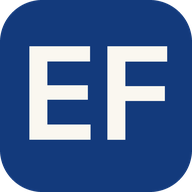
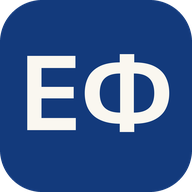
brand: scope proof + CTA; monogram ЕФ; sticky section labels; copy edits

Changed region(s): [[0.125, 0.2188, 0.9062, 0.75]]

diff --git a/index.html b/index.html
@@ -125,7 +125,8 @@ a:hover{color:var(--accent-hover); text-decoration-thickness:2px}
 .content{min-width:0; max-width:var(--measure)}
 @container (min-width:33rem){
   .section{display:grid; grid-template-columns:var(--rail) minmax(0,var(--measure)); column-gap:var(--gap); align-items:baseline} /* rail label sits ON the content's first baseline, not merely top-aligned — kills the ~5px caps-vs-serif drift */
-  .rail{text-align:right; margin-bottom:0}
+  .rail{text-align:right; margin-bottom:0;
+    position:sticky; top:var(--s6)} /* the section label trails the reader down its own section, then the next section's rule pushes it off — a CSS-only "active section" marker, no JS. It has travel because align-items:baseline still gives the rail its full (taller) content-row height as the containing block */
 }
 .kicker{text-transform:uppercase; font-weight:500; letter-spacing:var(--ls-caps); color:var(--muted); margin:0; line-height:1.2}
 .content>*:first-child{margin-top:0}
@@ -188,7 +189,8 @@ p{margin:var(--s5) 0 0; max-width:var(--measure); text-wrap:pretty}
 
 
 /* contact + footer */
-.contact{display:flex; flex-direction:column; gap:var(--s3); font-family:var(--display); font-weight:500; font-size:var(--fs-data)}
+.contact{display:flex; flex-direction:column; gap:var(--s3); font-family:var(--display); font-weight:500; font-size:var(--fs-data);
+  margin-top:var(--s5)} /* sits below the intent line; zeroed by the :first-child rule when no intro precedes it */
 .contact .ci{display:inline-flex; align-items:center; gap:.6em; line-height:1;
   color:var(--accent); text-decoration:none} /* the whole row — icon + text — is one click target */
 .contact .ci svg{width:20px; height:20px; fill:var(--accent); flex:0 0 auto}
@@ -230,7 +232,7 @@ footer{margin-top:var(--s8); border-top:1px solid var(--hairline); padding-top:v
   <section class="section">
     <div class="rail"><h2 class="kicker">Profile</h2></div>
     <div class="content">
-      <p>Eight years at <span class="lnum">Space307</span> &mdash; a trading platform for emerging markets across Asia and the Middle East &mdash; I priced the risk and built the monetization function before I ran product. It taught me to read a product through its economics, and to respect how hard the craft under it is.</p>
+      <p>Eight years at <span class="lnum">Space307</span>, a trading platform serving 20+ markets across Asia and the Middle East. I priced the risk and built the monetization function before I ran product; I read a product from its economics up, and I respect how hard the craft on top of that is.</p>
       <p>My strongest work is the org. I rebuilt how my department decides: quicker, cheaper, evidence over opinion. And I set how the wider company now decides which bets earn a rigorous test and which earn a fast, argued call &mdash; rigor where it&rsquo;s measurable, judgment where it isn&rsquo;t. When a call has to come before the data is clean, I make it and put my name on it.</p>
       <p>I shaped the product strategy the company runs on, and most of what I lead I don&rsquo;t manage &mdash; people follow the argument, not the title. The work I&rsquo;m proudest of is the leads who outgrew the roles I first handed them. I&rsquo;ll name a hard problem early, in plain words, rather than let it sit behind a clean status report.</p>
     </div>
@@ -239,7 +241,7 @@ footer{margin-top:var(--s8); border-top:1px solid var(--hairline); padding-top:v
   <section class="section">
     <div class="rail"><h2 class="kicker">Point of view</h2></div>
     <div class="content">
-      <p>A conviction I build and hire against: product durability is an economics problem before it&rsquo;s a feature problem. In a category like this one &mdash; regulation tightening, growth getting expensive &mdash; the products that last are the ones whose unit economics still work once the easy wins are gone. I&rsquo;d rather get the money model right than repaint the funnel.</p>
+      <p>A conviction I build and hire against: durability is an economics problem before it&rsquo;s a feature problem. I work in a category under tightening scrutiny &mdash; regulation closing in, acquisition getting expensive, growth no longer cheap. The products that last here are the ones whose unit economics still hold once the easy wins are gone. I&rsquo;d rather get the money model right than repaint the funnel.</p>
     </div>
   </section>
 
@@ -249,17 +251,17 @@ footer{margin-top:var(--s8); border-top:1px solid var(--hairline); padding-top:v
       <div class="stage">
         <span class="years tnum">2017&ndash;2022</span>
         <div><h3 class="role">Quant &middot; Risk Management</h3>
-        <p>I owned the pricing and risk end of the book &mdash; how every instrument we trade is priced and hedged. I grew from junior to senior quant, and the hardest calls in a live market landed on my desk.</p></div>
+        <p>I owned the pricing and risk end of the book: how every instrument we trade is priced and hedged. I grew from junior to senior quant, and the hardest live-market decisions landed on my desk.</p></div>
       </div>
       <div class="stage">
         <span class="years tnum">2022&ndash;2025</span>
         <div><h3 class="role">Monetization Lead</h3>
-        <p>Monetization wasn&rsquo;t a function yet. Leadership carved it out and asked me to build it &mdash; I did, from scratch: instrument pricing and risk, partner-network economics, retention, and the team of quants and analysts that runs it today. This is also where I moved from doing the analysis to leading the people who do it, and where I first had a hand in the company&rsquo;s strategy.</p></div>
+        <p>Monetization wasn&rsquo;t a function yet; it was smeared across teams, owned by no one. Leadership carved it out and asked me to build it, and I did &mdash; from scratch: instrument pricing and risk, partner-network economics, retention, and the team of quants and analysts that runs it today. This is where I moved from doing the analysis to leading the people who do it, and where I first had a hand in company strategy.</p></div>
       </div>
       <div class="stage">
         <span class="years tnum">2026&thinsp;&ndash;&thinsp;Now</span>
         <div><h3 class="role">Chief Product Officer</h3>
-        <p>I own product end to end &mdash; five delivery streams across the product&rsquo;s lifecycle, plus the functional teams for monetization, design, and research &mdash; and sit on the company&rsquo;s management team. The org I inherited was well-built, so I didn&rsquo;t spend my first year reorganizing it; I put my weight where the leverage was &mdash; how it decides. The operating model runs faster and cheaper now, and every roadmap review starts in the unit economics.</p></div>
+        <p>I own product end to end: a matrixed org of around eighty across five cross-functional delivery streams and the functional teams for monetization, design, and research, with nine leaders reporting to me directly. I sit on the company&rsquo;s management team. The org I inherited was well-built, so I didn&rsquo;t spend my first year reorganizing it &mdash; I put my weight where the leverage was: how it decides. The operating model runs leaner now, and every roadmap review starts in the unit economics.</p></div>
       </div>
     </div>
   </section>
@@ -268,15 +270,16 @@ footer{margin-top:var(--s8); border-top:1px solid var(--hairline); padding-top:v
     <div class="rail"><h2 class="kicker">How I lead</h2></div>
     <div class="content">
       <div class="principle"><h3>The constraint is never where it was last quarter.</h3><p>I moved a product org off measuring everything toward fast, cheap, evidence-first bets. When the bottleneck moved from shipping to deciding, I moved it again.</p></div>
-      <div class="principle"><h3>The model is a tool, not a verdict.</h3><p>My quant years taught me to read the numbers as evidence, not a ruling. The job is separating the bets that compound in the economics from the ones that just demo well.</p></div>
-      <div class="principle"><h3>The people calls are the ones to get right.</h3><p>I make them early and honestly. I treat the person leaving with as much care as the team staying, and own the call plainly instead of hiding behind process.</p></div>
-      <div class="principle"><h3>Know when to tune the engine and when to swap it.</h3><p>Most of the work is tuning how the money gets made. The judgment that earns its keep is spotting early &mdash; from where regulation and the market are heading &mdash; the moment tuning stops paying and the engine itself has to change.</p></div>
+      <div class="principle"><h3>The model is a tool, not a verdict.</h3><p>My quant years taught me to read the numbers as evidence, not a ruling. The job is separating the bets that compound from the ones that just demo well.</p></div>
+      <div class="principle"><h3>The people calls are the ones to get right.</h3><p>I make them early and honestly. I treat the person leaving with as much care as the team staying, and own the decision plainly instead of hiding behind process.</p></div>
+      <div class="principle"><h3>Know when to tune the engine and when to swap it.</h3><p>Most of the work is tuning how the money gets made. The judgment that earns its keep is spotting early, from where regulation and the market are heading, the moment tuning stops paying and the engine itself has to change.</p></div>
     </div>
   </section>
 
   <section class="section">
     <div class="rail"><h2 class="kicker">Contact</h2></div>
     <div class="content">
+      <p>I keep room for board and advisory work in fintech, the occasional talk, and mentoring product leaders &mdash; and I&rsquo;m always glad to hear from product people who want to build this way.</p>
       <div class="contact">
         <a class="ci" href="https://www.linkedin.com/in/evgeny-fayvuzhinskiy/"><svg viewBox="0 0 24 24" aria-hidden="true"><path d="M19 3a2 2 0 0 1 2 2v14a2 2 0 0 1-2 2H5a2 2 0 0 1-2-2V5a2 2 0 0 1 2-2h14m-.5 15.5v-5.3a3.26 3.26 0 0 0-3.26-3.26c-.85 0-1.84.52-2.32 1.3v-1.11h-2.79v8.37h2.79v-4.93c0-.77.62-1.4 1.39-1.4a1.4 1.4 0 0 1 1.4 1.4v4.93h2.79M6.88 8.56a1.68 1.68 0 0 0 1.68-1.68c0-.93-.75-1.69-1.68-1.69a1.69 1.69 0 0 0-1.69 1.69c0 .93.76 1.68 1.69 1.68m1.39 9.94v-8.37H5.5v8.37h2.77z"/></svg><span>linkedin.com/in/evgeny-fayvuzhinskiy</span></a>
         <a class="ci" href="mailto:e.u.f@icloud.com"><svg viewBox="0 0 24 24" aria-hidden="true"><path d="M20 4H4c-1.1 0-2 .9-2 2v12c0 1.1.9 2 2 2h16c1.1 0 2-.9 2-2V6c0-1.1-.9-2-2-2m-.4 4.25-6.54 4.09c-.65.41-1.47.41-2.12 0L4.4 8.25c-.25-.16-.4-.43-.4-.72 0-.67.73-1.07 1.3-.72L12 11l6.7-4.19c.57-.35 1.3.05 1.3.72 0 .29-.15.56-.4.72"/></svg><span>e.u.f@icloud.com</span></a>

diff --git a/build/make_assets.py b/build/make_assets.py
@@ -18,7 +18,7 @@ from fontTools.pens.boundsPen import BoundsPen
 HERE = os.path.dirname(os.path.abspath(__file__))
 ROOT = os.path.dirname(HERE)
 FONTS = os.path.join(HERE, "fonts")
-GOLOS = os.path.join(FONTS, "Commissioner-600.ttf")  # display font (name/role/EF monogram)
+GOLOS = os.path.join(FONTS, "Commissioner-600.ttf")  # display font (name/role/ЕФ monogram)
 LIT_IT = os.path.join(FONTS, "Literata-Italic.ttf")
 CUTOUT = "/Users/eugene/Downloads/headshot.opt.png"
 
@@ -29,10 +29,12 @@ ACCENT= (19, 58, 124)     # #133A7C  --accent
 MUTED = (90, 87, 80)      # #5A5750  --muted
 HAIR  = (226, 222, 212)   # #E2DED4  --hairline
 
-MONO = "EF"
+# Cyrillic monogram: Е (identical to Latin E) + Ф. Reads "EF" to a Latin
+# audience, but the Ф gives a distinctive, ownable circle-and-bar mark.
+MONO = "ЕФ"
 
 # ----------------------------------------------------------------------------
-# FAVICON (raster): deep-blue rounded tile, cream "EF", Golos Text 600
+# FAVICON (raster): deep-blue rounded tile, cream "ЕФ", Commissioner 600
 # ----------------------------------------------------------------------------
 def fit_font(text, target_w, target_h, path):
     """Largest font size whose text fits target box."""
